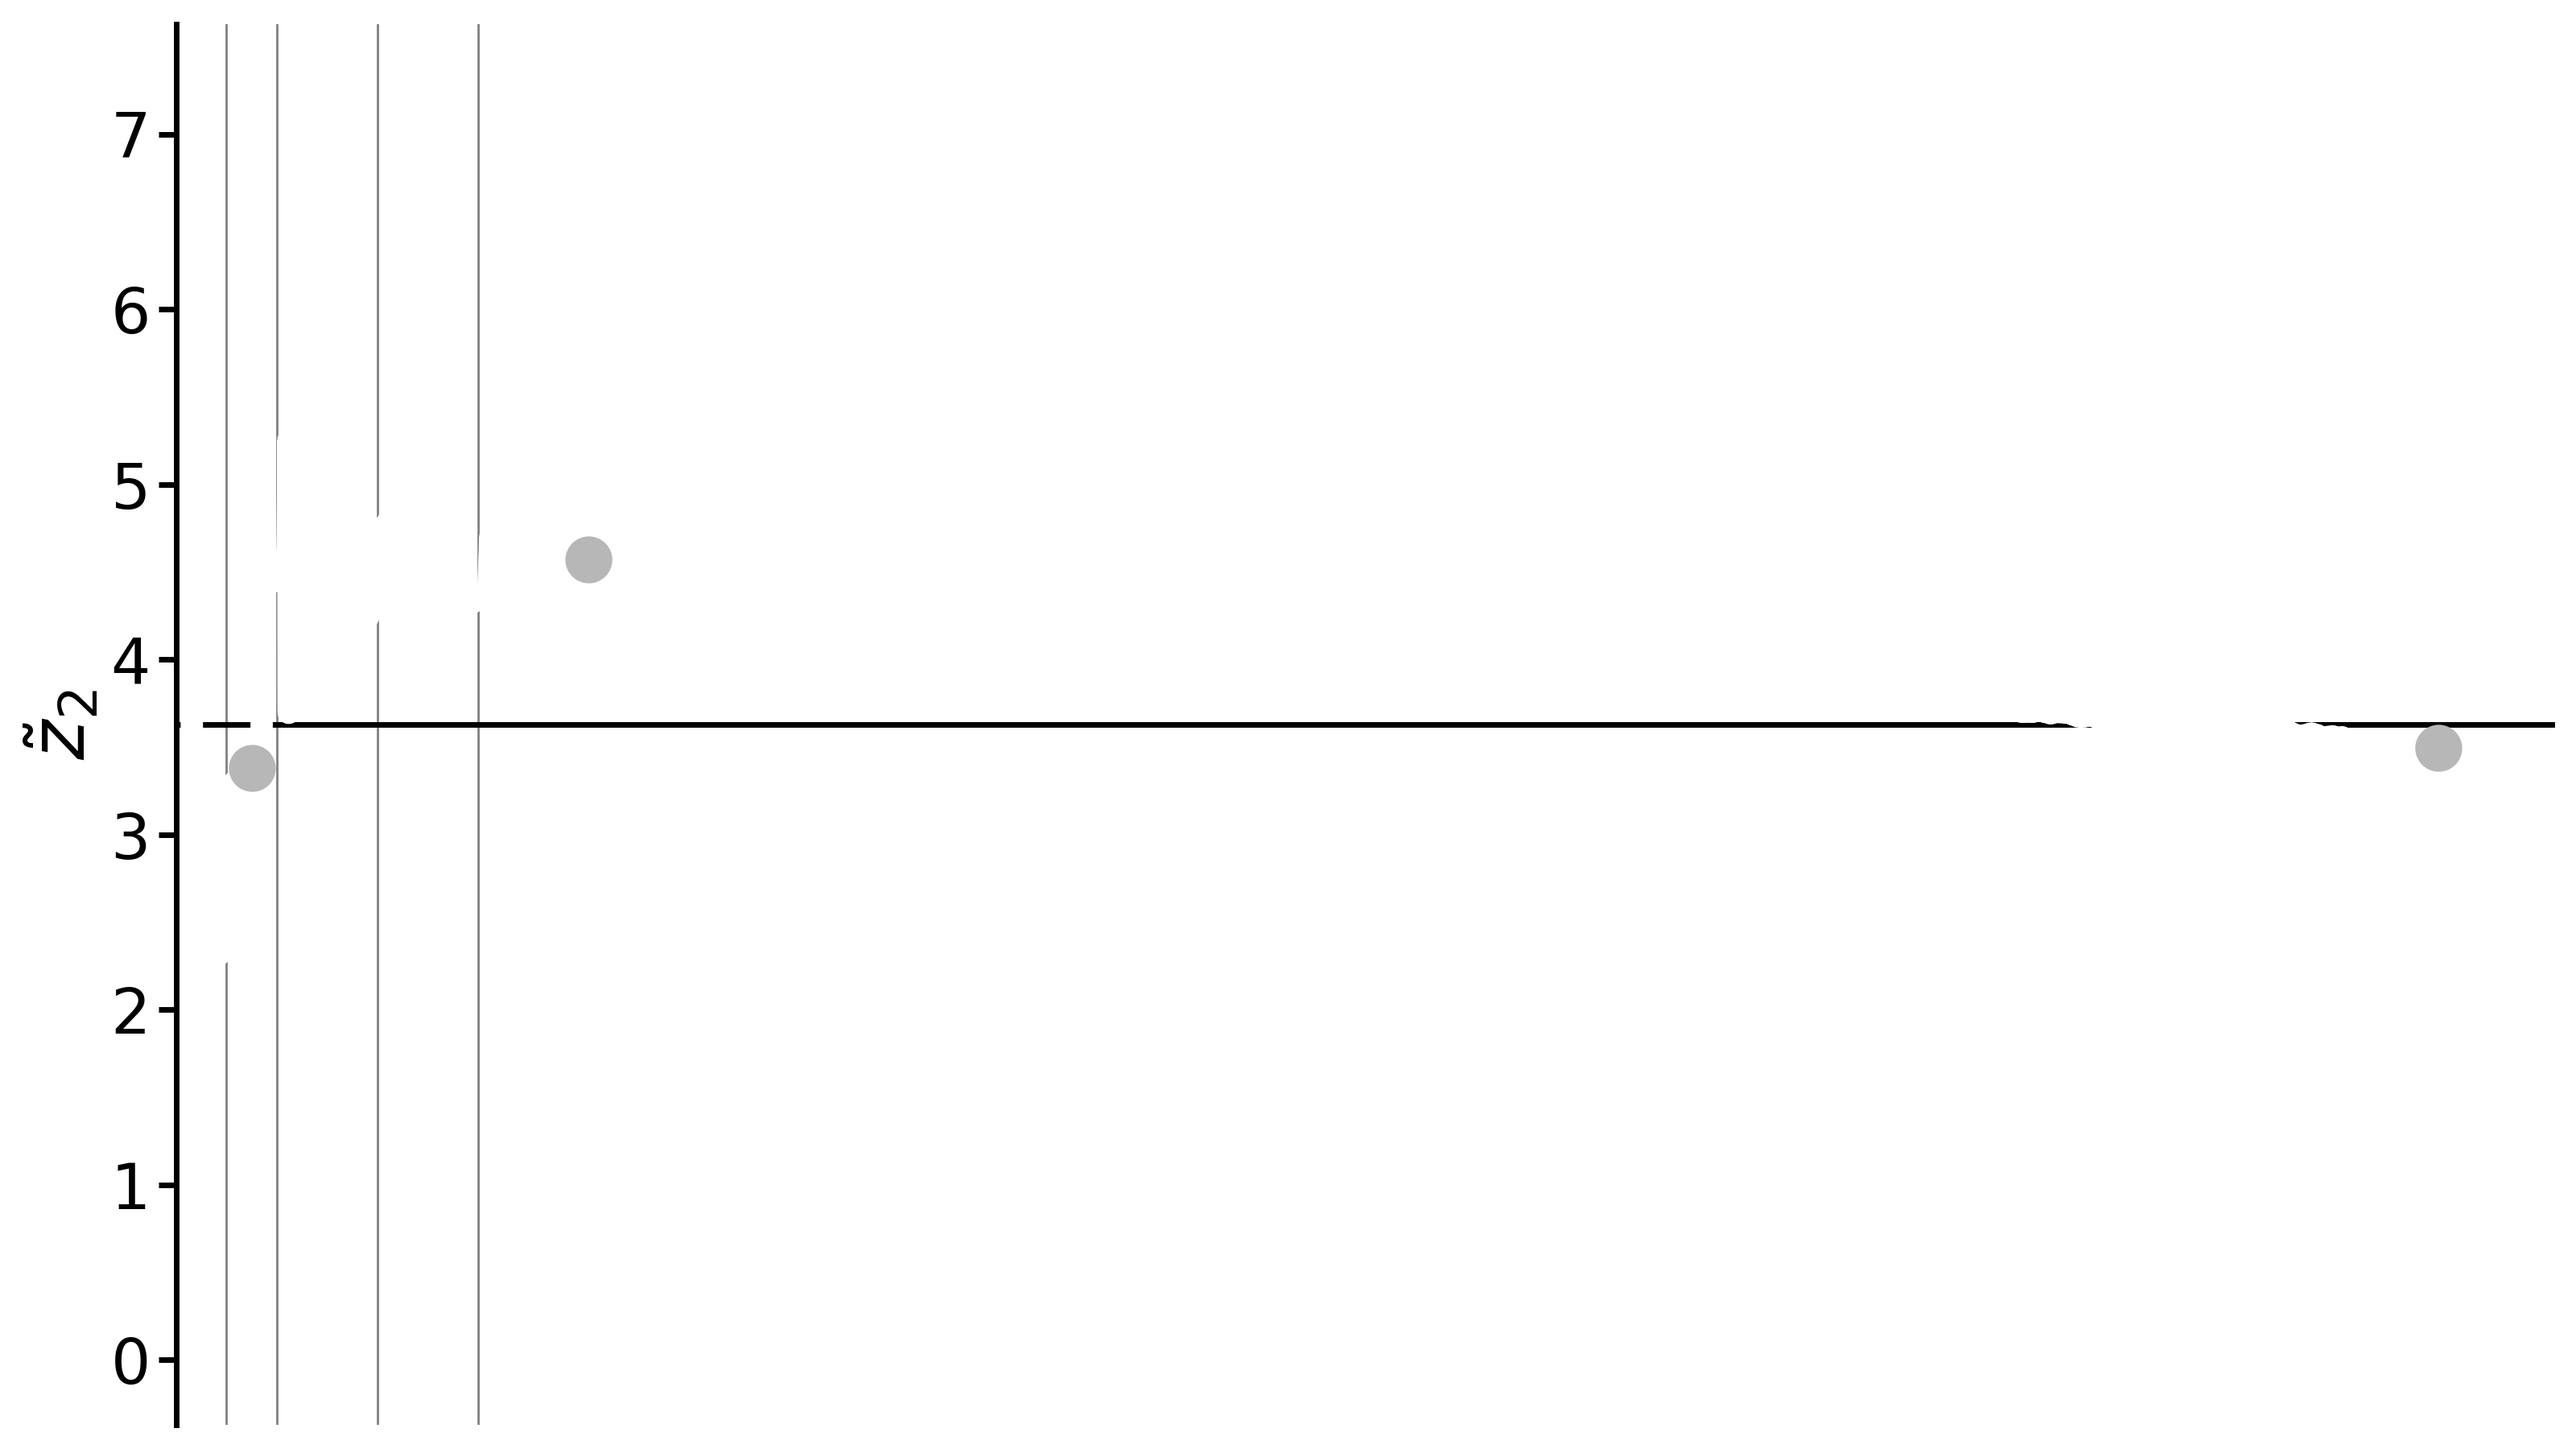
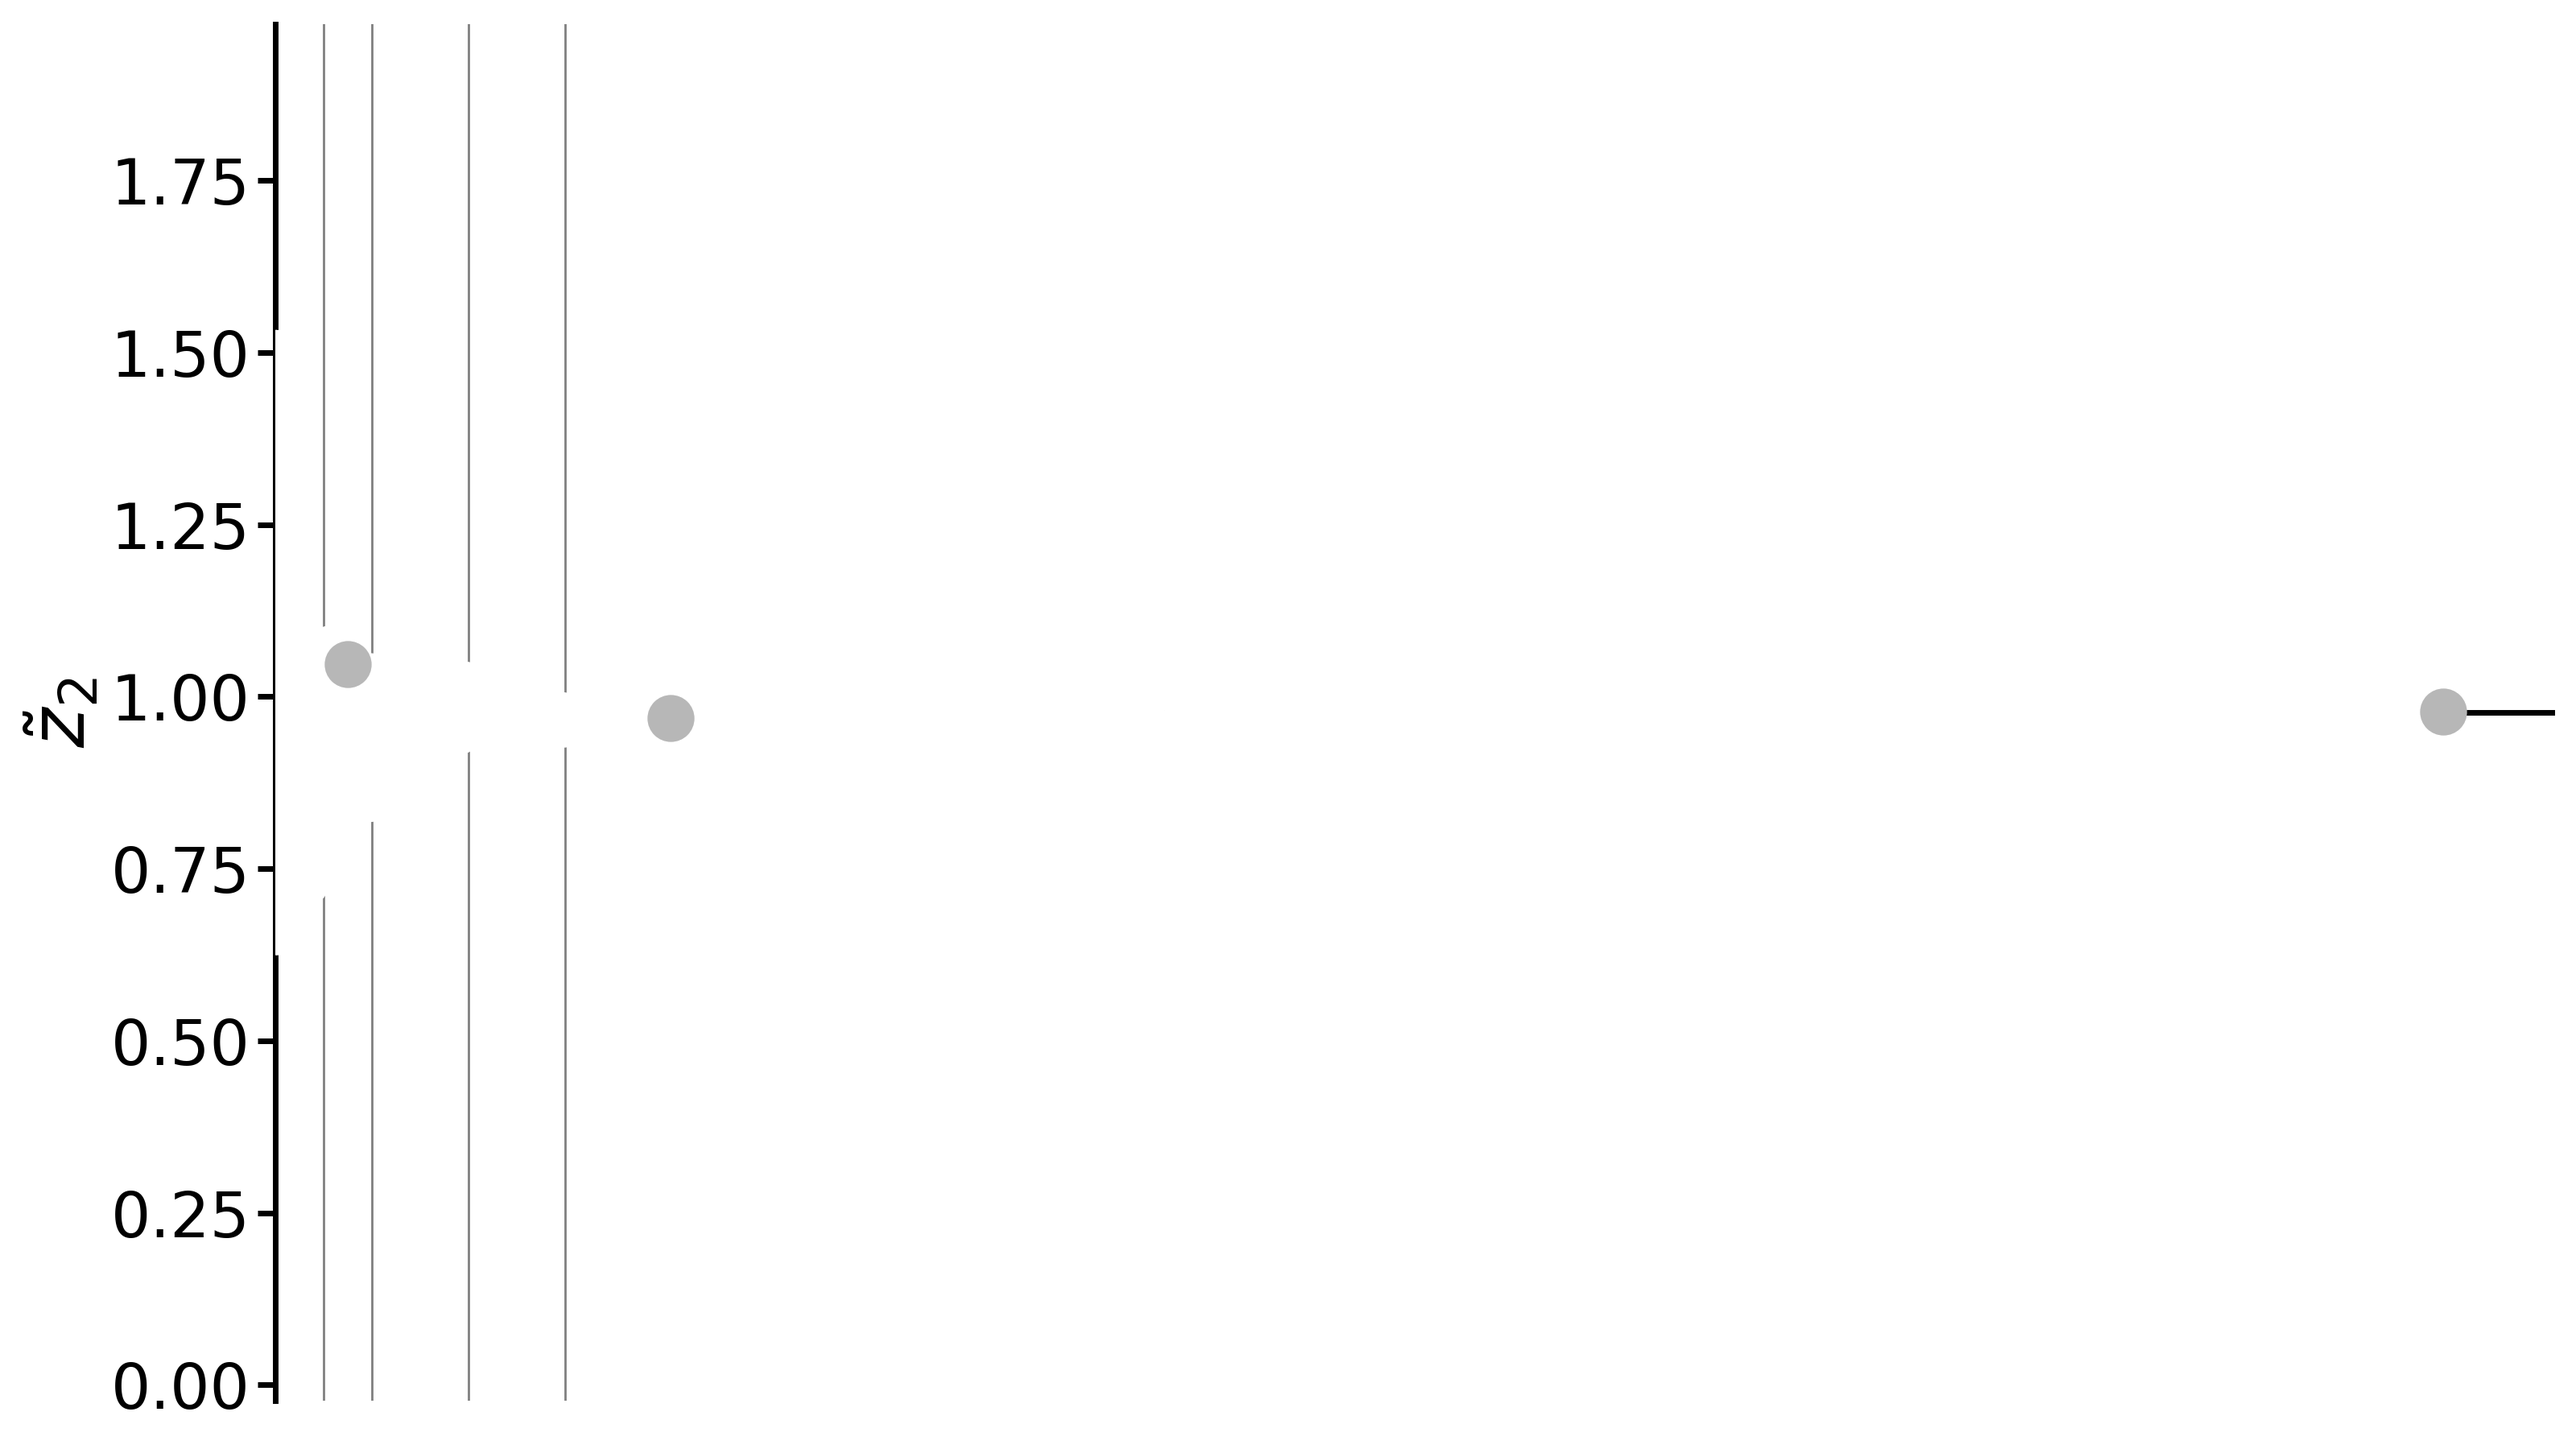
Fixed numerical issue in float32, should be consistent with float64

diff --git a/common/sandscapes_main.py b/common/sandscapes_main.py
@@ -6,8 +6,7 @@ import jax.numpy as jnp
 
 # Checks if #jax.config.update("jax_enable_x64", True)  was called and adapts to the precision
 is_x64 = jax.config.jax_enable_x64
-numerical_eps = 1e-14 if is_x64 else 1e-7
-print("USING 64 PRECISION", is_x64, numerical_eps)
+print("USING 64 PRECISION", is_x64)
 
 @jax.jit
 def calculate_distances(X, XI):
@@ -41,8 +40,9 @@ def calculate_gradient(X, XI, beta, gamma, mute_cells, w_mu):
     S_sum = (calculate_aggregate_signals(S, mute_cells)+gamma)*w_mu
 
     coefs = S / (S_sum)[None, :] # (N-cells, N-patterns)
-    N = coefs.sum(axis=-1)  + numerical_eps # (N-cells,)
-    grad = (coefs/N[:, None])  @ XI - X # (N-cells, N-dim)
+    N = coefs.sum(axis=-1) # (N-cells,)
+    N_inv = jnp.where(N>0, 1/N, 0)
+    grad = (coefs*N_inv[:, None])  @ XI - X # (N-cells, N-dim)
     return grad
 
 
@@ -66,8 +66,9 @@ def calculate_grads_and_Es(X, XI, beta, gamma, mute_cells, w_mu):
     
 
     coefs = S / (S_sum)[None, :] # (N-cells, N-patterns)
-    N = coefs.sum(axis=-1)  + numerical_eps # (N-cells,)
-    grad = (coefs/N[:, None])  @ XI - X # (N-cells, N-dim)
+    N = coefs.sum(axis=-1) # (N-cells,)
+    N_inv = jnp.where(N>0, 1/N, 0)
+    grad = (coefs*N_inv[:, None])  @ XI - X # (N-cells, N-dim)
 
 
     # more numerically stable

diff --git a/FigureCode/Fig4_wmu/B_simulate_triangle_growth.py b/FigureCode/Fig4_wmu/B_simulate_triangle_growth.py
@@ -1,3 +1,6 @@
+import jax
+jax.config.update("jax_enable_x64", True)
+
 import sys
 sys.path.append('../../common')
 
@@ -37,14 +40,15 @@ q = args.q
 #w_mu = jnp.asarray([600.0, 60.0, 1.0])
 #w_mu = jnp.asarray([200.0, 20.0, 1.0]) 
 
-w_mu = jnp.asarray([10.0, 10.0, 1.0]) # 6 seems good
+#w_mu = jnp.asarray([60.0, 20.0, 1.0]) # 6 seems good
+w_mu = jnp.asarray([60.0*20.0, 20.0*5, 1.0]) # 6 seems good
 
 
 gamma = jnp.asarray([800.0, 150.0, 1.0])*q + 1E-5
 gamma = gamma / w_mu
 
 beta = 1.500 #1.5 
-K = 750*10*4  # 4
+K = 1*750*10*4  # 4
 
 tmax= K*30  # here it's inverse rate
 a = (tmax)/K
@@ -55,7 +59,7 @@ keys = jax.random.split(key, (tmax,))
 X_STEM = jnp.asarray([ XIs[0] ])
 X_0 = X_STEM.repeat(K, axis=0)
 
-N_TIME_CHUNKS = 25 #400
+N_TIME_CHUNKS = 2*25 #400
 time_chunk_size = tmax // N_TIME_CHUNKS
 
 k = jnp.arange(K)[None, :]
@@ -93,4 +97,4 @@ for i in tqdm.tqdm(range(0, N_TIME_CHUNKS)):
 Xs_saves.flush()
 
 # Let's not save Xs_saves...
-jnp.savez(args.filename, Ss_saves=Ss_saves, K=K, XIs=XIs, beta=beta, gamma=gamma)
+jnp.savez(args.filename, Ss_saves=Ss_saves, K=K, XIs=XIs, beta=beta, gamma=gamma, w_mu=w_mu)

diff --git a/FigureCode/Fig4_wmu/A_catastrophe_plot_growth.py b/FigureCode/Fig4_wmu/A_catastrophe_plot_growth.py
@@ -97,7 +97,7 @@ n_y = 16
 n_x = 20
 
 starts_x0    = np.c_[np.full(n_y, X.min()),    np.linspace(Y.min(), Y.max()*0.95, n_y)]
-starts_x2000 = np.c_[np.full(n_y, X.max()), np.linspace(4, Y.max()*0.95, n_y)] # 4 is roughly the flip
+starts_x2000 = np.c_[np.full(n_y, X.max()), np.linspace(1.0, Y.max()*0.95, n_y)] # 4 is roughly the flip
 
 
 ax.streamplot(
@@ -112,12 +112,12 @@ ax.streamplot(
 )
 
 # matplotlib is really suboptimal.. workaround below
-for i in range(10, 130, 5):
+for i in np.linspace(X.min(), X.max(), 20):
     n_x = 1
     starts_y0    = np.c_[np.linspace(i, i+2, n_x), np.full(n_x, Y.min())]
     ax.streamplot(
         X, Y, U, V,
-        color="blue",
+        color="white",
         linewidth=3,
         start_points=starts_y0,
         arrowsize=0.0,

diff --git a/FigureCode/Fig4_wmu/C_dynamical_trajectories.py b/FigureCode/Fig4_wmu/C_dynamical_trajectories.py
@@ -16,14 +16,14 @@ def get_spatial_indices(data, eps):
     return np.unique(np.append(indices, len(data) - 1))
 
 
-Xs_saves_all = np.load("/localhome/nacer/data_4_wmu/Xs_saves.mmap", mmap_mode="r")[:80000, :] #70000
+Xs_saves_all = np.load("/localhome/nacer/data_4_wmu/Xs_saves.mmap", mmap_mode="r")[:, :] #70000
 
 
 #Xs_saves_all = Xs_saves
 tmax = len(Xs_saves_all)
-gamma_vlines = np.unique(np.r_[np.arange(0, tmax-1, 10000, dtype=int)[[0, 1, 2, 4, 6]], tmax-1])
+gamma_vlines = np.unique(np.r_[np.arange(0, tmax-1, len(Xs_saves_all)//7, dtype=int)[[0, 1, 2, 4, 6]], tmax-1])
 
-data = np.load("run_save_growth.npz")
+data = np.load("/localhome/nacer/data_4_wmu/run_save_growth.npz")
 K = data["K"]
 XIs = data["XIs"]
 beta = data["beta"]

diff --git a/FigureCode/Fig4_wmu/make_z_movie.py b/FigureCode/Fig4_wmu/make_z_movie.py
@@ -4,13 +4,17 @@ from multiprocessing import Pool
 from mpl_toolkits.axes_grid1 import make_axes_locatable
 sns.set_theme(palette="pastel")
 
-z = np.load("/localhome/nacer/data_4_wmu/run_save_growth.npz")["Ss_saves"][::10]; 
+z = np.load("/localhome/nacer/data_4_wmu/run_save_growth.npz")["Ss_saves"][::1]; 
 #z = np.load("../Fig4/run_save_growth.npz")["Ss_saves"][::10]; 
 z = z / z[:, -1][:, None]
+
 d = np.load("data_catastrophe_2/catastrophe_data_growth.npz")
 zm, n = d["z_mus"], int(d["size_gamma"])
 w_mu = d["w_mu"]
-zm = zm*w_mu[None, :]
+zm = zm
+
+
+z = z / w_mu[None, :]
 
 N_pp = np.ceil((d["N_fps_space"] - 1) / 2.0)  # keep only odd FP counts
 cmap = mc.ListedColormap(["#D55E00", "#E69F00", "#56B4E9", "#009E73"])

diff --git a/FigureCode/Fig4_wmu/A_calc_catastrophe.py b/FigureCode/Fig4_wmu/A_calc_catastrophe.py
@@ -92,7 +92,7 @@ def calculate_catastrophe_byblock(Ms_probes, z_mus, gamma, XIs, beta, w_mu, bloc
     return N_fps_all
 
 
-w_mu = jnp.asarray([20.0, 20.0, 1.0]) # 6 seems good
+w_mu = jnp.asarray([60.0*20.0, 20.0*5, 1.0]) # 6 seems good
 
 size = 1000#//2
 xs = jnp.linspace(-1.5, 1.5, size)
@@ -108,8 +108,8 @@ size_gamma = 200 #500
 #z_mus_lin_x = jnp.linspace(0.001, 4.0, size_gamma)
 #z_mus_lin_y = jnp.linspace(0.001, 15.0, size_gamma)
 
-z_mus_lin_x = jnp.linspace(0.001, 120.0, size_gamma)
-z_mus_lin_y = jnp.linspace(0.001, 45.0, size_gamma)
+z_mus_lin_x = jnp.linspace(0.001, 2.0, size_gamma)
+z_mus_lin_y = jnp.linspace(0.001, 9.0, size_gamma)
 
 z_mus_x, z_mus_y = jnp.meshgrid(z_mus_lin_x, z_mus_lin_y)
 

diff --git a/FigureCode/Fig4_wmu/B_catastrophe_trajectory_growth_plot.py b/FigureCode/Fig4_wmu/B_catastrophe_trajectory_growth_plot.py
@@ -14,7 +14,9 @@ tmin = 0
 data_h = np.load("/localhome/nacer/data_4_wmu/run_save_growth.npz")
 Ss_saves_h = data_h['Ss_saves']#100000
 tmax = len(Ss_saves_h)
+w_mu = data_h["w_mu"]
 
+Ss_saves_h = Ss_saves_h/w_mu[None, :]
 
 
 gamma_points_h = np.asarray([1500, 8200, tmax-1])
@@ -40,8 +42,8 @@ ax.set_ylabel(r"$\tilde{z}_2$", fontsize=34)
 y_0 = np.mean(z_h[-10000:, 1])
 
 #dy = 
-ymin = y_0 - 4
-ymax = y_0 + 4
+ymin = y_0 - 1
+ymax = y_0 + 1
 
 
 ax.locator_params(axis='x', nbins=20)
